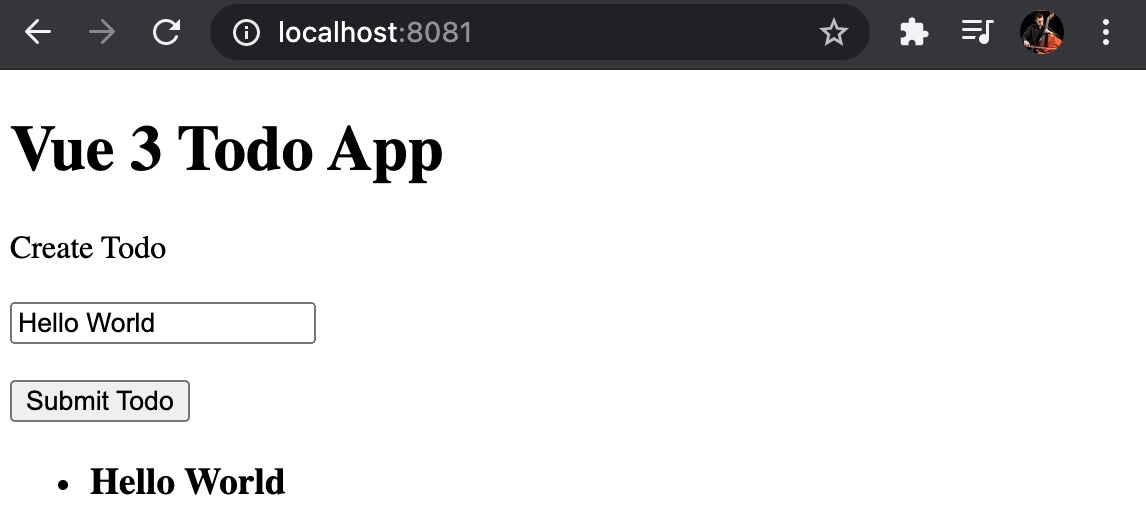
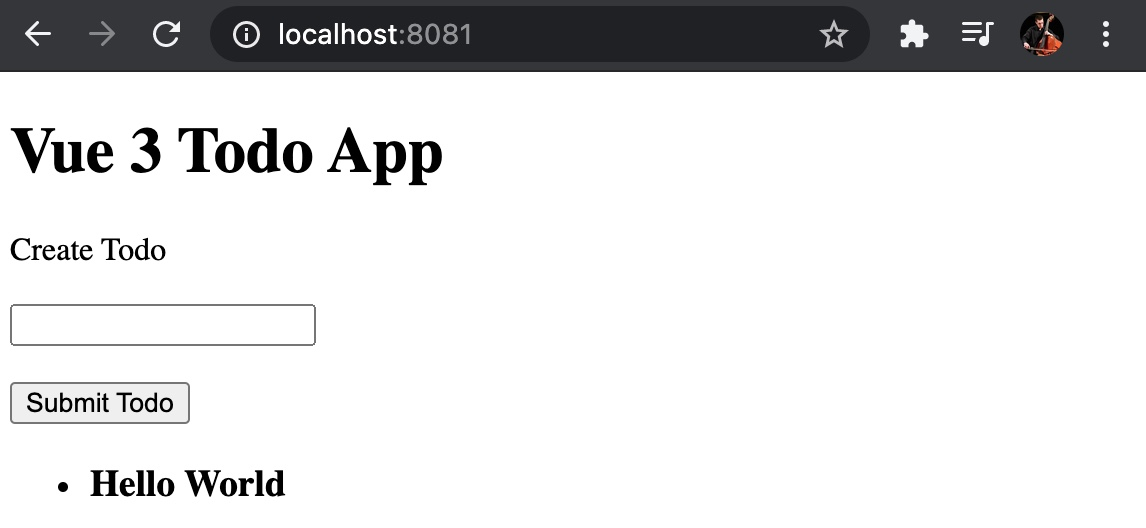
Check done on a todo to mark it as done

diff --git a/src/App.vue b/src/App.vue
@@ -9,7 +9,7 @@
   </form>
   <ul>
     <li v-for="todo in todos" v-bind:key="todo.id">
-      <h3>{{todo.content}}</h3>
+      <h3 @click="toggleDone(todo)">{{todo.content}}</h3>
     </li>
   </ul>
 </template>
@@ -22,18 +22,24 @@ export default {
     const newTodo = ref('')
     const todos = ref([])
 
-    function addNewTodo() {
+    const addNewTodo = () => {
       todos.value.push({
         id: Date.now(),
         done: false,
         content: newTodo.value,
       })
+      newTodo.value = ''
+    }
+
+    const toggleDone = (todo) => {
+      todo.done = !todo.done
     }
 
     return {
       todos,
       newTodo,
       addNewTodo,
+      toggleDone,
     }
   }
 }

diff --git a/README.md b/README.md
@@ -57,7 +57,7 @@ export default {
 ```javascript
 export default {
   setup() {
-    function addNewTodo() {
+    const addNewTodo = () => {
       console.log('form submitted!!')
     }
     return {
@@ -100,7 +100,7 @@ export default {
 ## Log the user input when the form is submitted
 
 ```javascript
-function addNewTodo() {
+const addNewTodo = () => {
   console.log(newTodo.value)
 }
 ```
@@ -124,12 +124,13 @@ export default {
 ## Push the new todo into the todos array
 
 ```javascript
-function addNewTodo() {
+const addNewTodo = () => {
   todos.value.push({
     id: Date.now(),
     done: false,
     content: newTodo.value,
   })
+  newTodo.value = ''
 }
 ```
 
